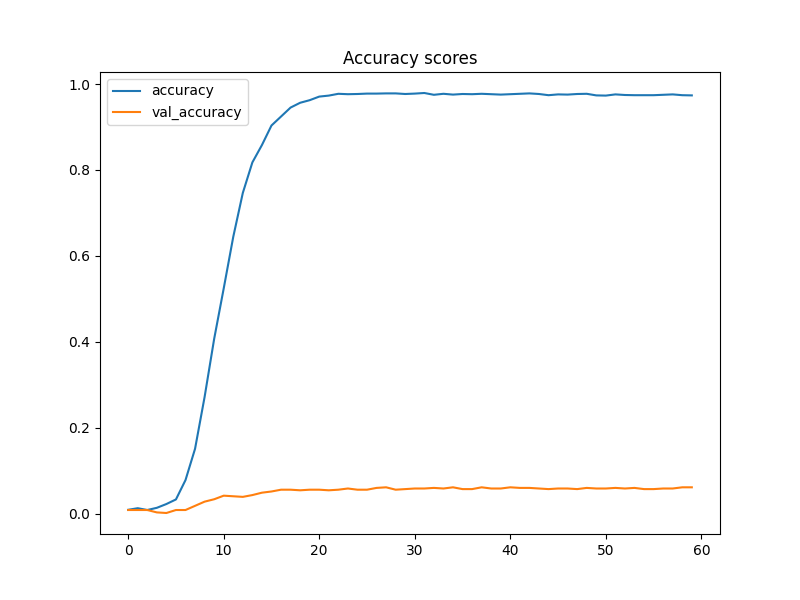
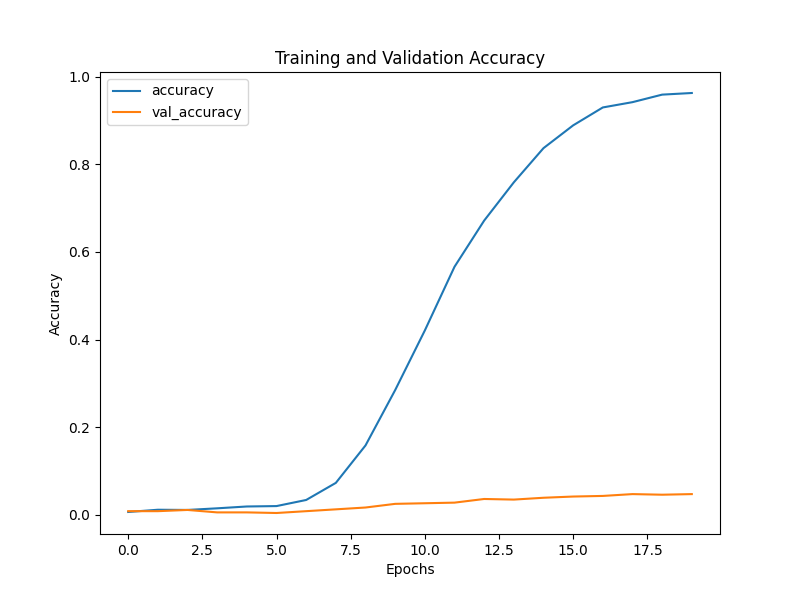
Added EDA graphs. Tweaked Validation graphs.

diff --git a/src/model.py b/src/model.py
@@ -16,8 +16,12 @@ import re
 from sklearn.metrics import mean_absolute_error
 from keras.layers import Dropout, Dense
 from keras.optimizers import Adam
+from wordcloud import WordCloud
+from sklearn.metrics import confusion_matrix
+from sklearn.metrics import precision_score, recall_score, f1_score
 
-
+IS_GRAPHING = False
+IS_PRINTING = False
 EMBEDDING_DIM = 2000
 NUM_EPOCHS = 20
 BATCH_SIZE = 25
@@ -30,16 +34,31 @@ SKIP_WORDS = SKIP_WORDS.union(['went','got','want','get',',','?','!','@','#','$'
                                '<','>',';',':','\"','[',']','{','}','\\','|','_','=','+', 'made','goes','really'])
 
 def DataPrep():
-    #current_directory = os.getcwd()
-    #print("Current directory:", current_directory)
     data_folder = 'data/'
-    #data_folder = 'Disc-Emojify/data/'
     data_file = 'emojis.csv'
     data_path = os.path.join(data_folder, data_file)
     df = pd.read_csv(data_path)
 
     unique_emojis = df['emoji'].unique()
     emoji_to_int = {emoji: i for i, emoji in enumerate(unique_emojis)}
+
+    if(IS_GRAPHING):
+        df['description_length'] = df['description'].apply(lambda x: len(x.split(',')))
+        sns.histplot(df['description_length'])
+        plt.title('Distribution of Description Lengths')
+        plt.xlabel('Description Length')
+        plt.ylabel('Count of Emojis with Similar Lengths')
+        plt.savefig(os.path.join('output/','DescriptionLength.png'))
+        plt.close()
+
+        all_descriptions = ' '.join(df['description'])
+        wordcloud = WordCloud(width=800, height=400, background_color='white').generate(all_descriptions)
+        plt.figure(figsize=(10, 5))
+        plt.imshow(wordcloud, interpolation='bilinear')
+        plt.axis('off')
+        plt.title('Word Cloud of Emoji Descriptions')
+        plt.savefig(os.path.join('output/','WordCloud.png'))
+        plt.close()
 
     tokenized_descriptions = []
     emoji_labels = []
@@ -80,7 +99,7 @@ def Train(padded_sequences, emoji_labels, unique_emojis, tokenizer, sequence_len
     optimizer=Adam()
     model.compile(loss='categorical_crossentropy', optimizer=optimizer, metrics=['acc'])
     fit = model.fit(X_train, y_train, epochs=NUM_EPOCHS, batch_size=BATCH_SIZE, validation_data=(X_test, y_test))
-    if(True):
+    if(IS_PRINTING):
         loss, accuracy = model.evaluate(X_test, y_test)
         print(f"Test loss: {loss:.4f}, Test accuracy: {accuracy:.4f}")
         test_mae = mean_absolute_error(y_test, model.predict(X_test))
@@ -116,21 +135,28 @@ if __name__ == '__main__':
     padded_sequences, emoji_labels, unique_emojis, tokenizer, sequence_length = DataPrep()
     emojify,fit = Train(padded_sequences, emoji_labels, unique_emojis, tokenizer, sequence_length)
 
-    if(True):
-        #output_folder = 'Disc-Emojify/output/'
+    if(IS_GRAPHING):
         output_folder = 'output/'
+
         plt.figure(figsize=(8,6))
-        plt.title('Accuracy scores')
-        plt.plot(fit.history['acc'])
-        plt.plot(fit.history['val_acc'])
+        plt.title('Training and Validation Accuracy')
+        plt.plot(fit.history['acc'], label='Training Accuracy')
+        plt.plot(fit.history['val_acc'], label='Validation Accuracy')
         plt.legend(['accuracy', 'val_accuracy'])
+        plt.xlabel('Epochs')
+        plt.ylabel('Accuracy')
         accuracy_path = os.path.join(output_folder,'AccuracyScore.png')
         plt.savefig(accuracy_path)
+        plt.close()
+
         plt.figure(figsize=(8,6))
-        plt.title('Loss value')
-        plt.plot(fit.history['loss'])
-        plt.plot(fit.history['val_loss'])
+        plt.title('Training and Validation Loss')
+        plt.plot(fit.history['loss'], label='Training Loss')
+        plt.plot(fit.history['val_loss'], label='Validation Loss')
         plt.legend(['loss', 'val_loss'])
+        plt.xlabel('Epochs')
+        plt.ylabel('Loss')
         loss_path = os.path.join(output_folder,'LossScore.png')
         plt.savefig(loss_path)
+        plt.close()
 
